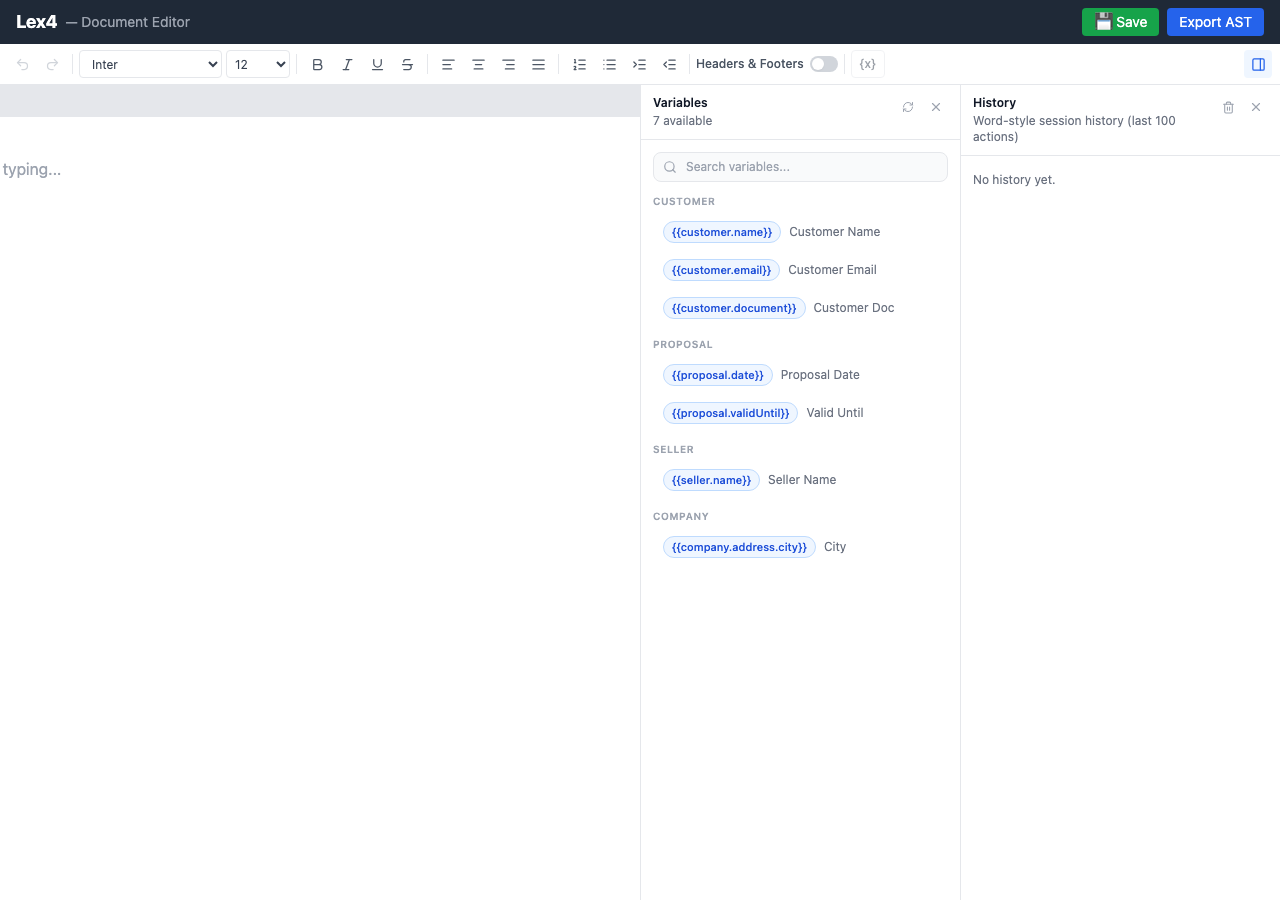
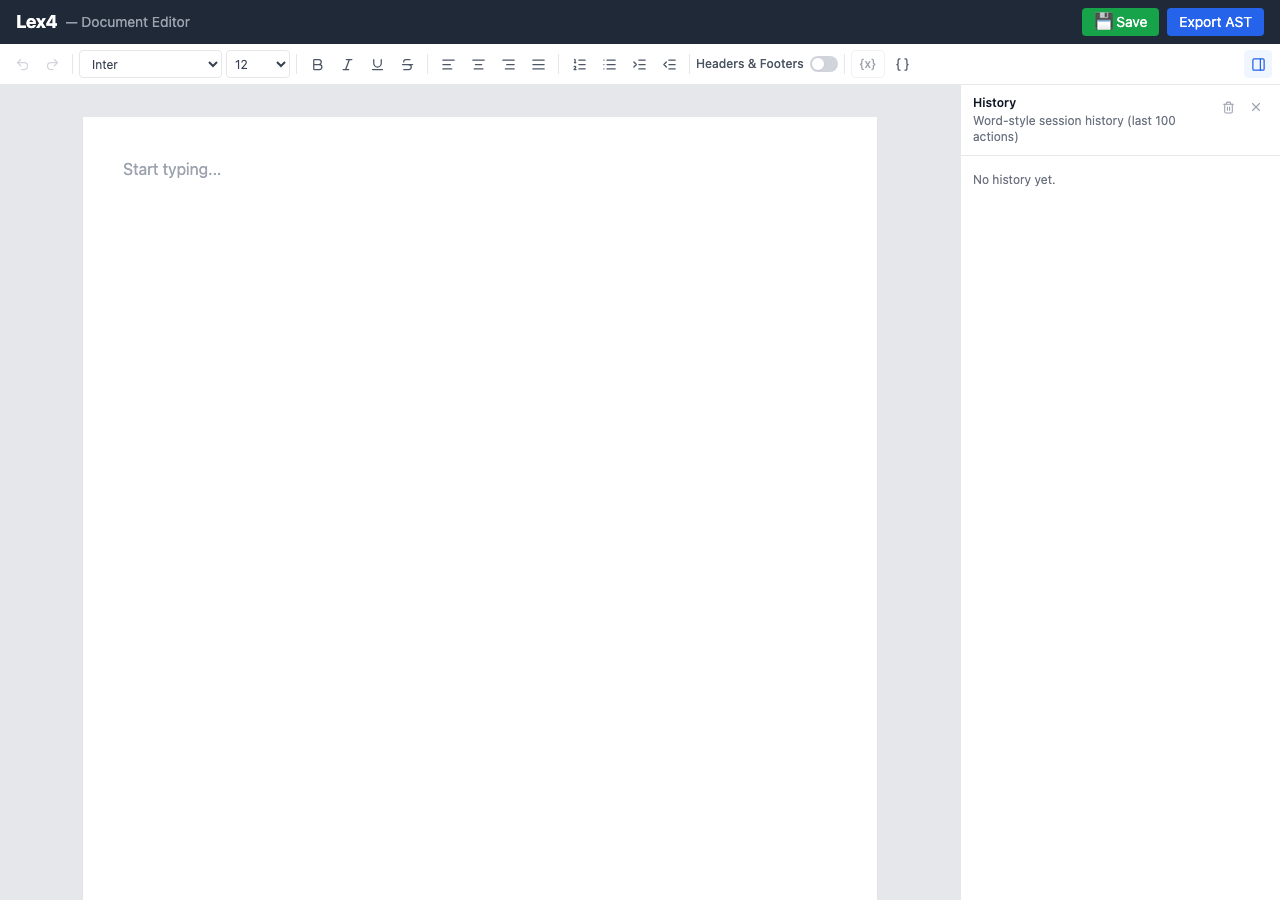
fix: variable panel toggle button, variable node deletion, panel state
- Add Braces icon toggle button in toolbar to open/close Variables panel
- Panel starts closed by default (no longer auto-opens)
- VariablePanelContext provides reactive open/close state shared between
  toolbar toggle and side panel
- Fix VariableNode deletion: replace isIsolated() with
  isKeyboardSelectable() so nodes can be selected and deleted via
  backspace/delete keys
- VariablePanel now receives open/onClose as props

diff --git a/packages/editor/src/extensions/variables-extension.tsx b/packages/editor/src/extensions/variables-extension.tsx
@@ -1,4 +1,5 @@
-import React, { useCallback, useEffect } from 'react';
+import React, { createContext, useCallback, useContext, useEffect, useState } from 'react';
+import { Braces } from 'lucide-react';
 import type { Lex4Extension, ExtensionContext } from './types';
 import type { VariableDefinition } from '../variables/types';
 import { VariableNode } from '../variables/variable-node';
@@ -9,6 +10,31 @@ import { VariablePanel } from '../components/VariablePanel';
 import { INSERT_VARIABLE_COMMAND } from '../variables/variable-commands';
 import { useDocument } from '../context/document-context';
 import { useExtensionState } from './extension-context';
+
+// --- Variable panel open/close context ---
+
+interface VariablePanelState {
+  panelOpen: boolean;
+  setPanelOpen: (open: boolean) => void;
+}
+
+const VariablePanelContext = createContext<VariablePanelState>({
+  panelOpen: false,
+  setPanelOpen: () => {},
+});
+
+export function useVariablePanelState(): VariablePanelState {
+  return useContext(VariablePanelContext);
+}
+
+const VariablePanelStateProvider: React.FC<{ children: React.ReactNode }> = ({ children }) => {
+  const [panelOpen, setPanelOpen] = useState(false);
+  return (
+    <VariablePanelContext.Provider value={{ panelOpen, setPanelOpen }}>
+      {children}
+    </VariablePanelContext.Provider>
+  );
+};
 
 /**
  * Toolbar item contributed by the variables extension.
@@ -37,6 +63,40 @@ const VariableToolbarItem: React.FC = () => {
 };
 
 /**
+ * Toolbar toggle button for the Variables side panel.
+ */
+const VariablePanelToggle: React.FC = () => {
+  const { panelOpen, setPanelOpen } = useVariablePanelState();
+
+  return (
+    <button
+      type="button"
+      title={panelOpen ? 'Close Variables' : 'Open Variables'}
+      aria-label={panelOpen ? 'Close Variables' : 'Open Variables'}
+      onMouseDown={e => e.preventDefault()}
+      onClick={() => setPanelOpen(!panelOpen)}
+      className={`
+        flex h-7 w-7 items-center justify-center rounded transition-colors
+        ${panelOpen
+          ? 'bg-blue-50 text-blue-600'
+          : 'text-gray-600 hover:bg-gray-100 hover:text-gray-900'}
+      `}
+      data-testid="toggle-variable-panel"
+    >
+      <Braces size={15} />
+    </button>
+  );
+};
+
+/**
+ * Wrapped VariablePanel that reads open/close state from VariablePanelContext.
+ */
+const VariablePanelWithState: React.FC = () => {
+  const { panelOpen, setPanelOpen } = useVariablePanelState();
+  return <VariablePanel open={panelOpen} onClose={() => setPanelOpen(false)} />;
+};
+
+/**
  * Syncs the VariableProvider definitions into the extension state store
  * so astExtension can access them when building the AST.
  */
@@ -58,7 +118,8 @@ const VariableDefinitionsSync: React.FC<{ children: React.ReactNode }> = ({ chil
  * - VariableNode (custom Lexical node)
  * - VariablePlugin (body plugin for insert command handling)
  * - VariableProvider (context provider for variable catalog)
- * - VariablePicker toolbar item
+ * - VariablePicker toolbar item + panel toggle button
+ * - VariablePanel side panel with toggle state
  * - Handle methods: insertVariable, refreshVariables
  *
  * @param definitions Initial variable definitions to load
@@ -74,11 +135,13 @@ const VariableDefinitionsSync: React.FC<{ children: React.ReactNode }> = ({ chil
 export function variablesExtension(definitions: VariableDefinition[] = []): Lex4Extension {
   const ProviderWrapper: React.FC<{ children: React.ReactNode }> = ({ children }) => {
     return (
-      <VariableProvider initialDefinitions={definitions}>
-        <VariableDefinitionsSync>
-          {children}
-        </VariableDefinitionsSync>
-      </VariableProvider>
+      <VariablePanelStateProvider>
+        <VariableProvider initialDefinitions={definitions}>
+          <VariableDefinitionsSync>
+            {children}
+          </VariableDefinitionsSync>
+        </VariableProvider>
+      </VariablePanelStateProvider>
     );
   };
 
@@ -86,8 +149,8 @@ export function variablesExtension(definitions: VariableDefinition[] = []): Lex4
     name: 'variables',
     nodes: [VariableNode],
     bodyPlugins: [VariablePlugin],
-    toolbarItems: [VariableToolbarItem],
-    sidePanel: VariablePanel,
+    toolbarItems: [VariableToolbarItem, VariablePanelToggle],
+    sidePanel: VariablePanelWithState,
     provider: ProviderWrapper,
     handleMethods: (ctx: ExtensionContext) => ({
       insertVariable: (key: string) => {

diff --git a/packages/editor/src/components/VariablePanel.tsx b/packages/editor/src/components/VariablePanel.tsx
@@ -15,11 +15,13 @@ import type { VariableDefinition } from '../variables/types';
  * - Click-to-insert into the active editor
  * - Refresh button for reloading definitions
  */
-export const VariablePanel: React.FC = () => {
+export const VariablePanel: React.FC<{
+  open: boolean;
+  onClose: () => void;
+}> = ({ open, onClose }) => {
   const { definitions } = useVariables();
   const { activeEditor, runHistoryAction } = useDocument();
   const [filter, setFilter] = useState('');
-  const [open, setOpen] = useState(true);
 
   const filtered = useMemo(() => {
     if (!filter) return definitions;
@@ -59,7 +61,7 @@ export const VariablePanel: React.FC = () => {
       title="Variables"
       subtitle={`${definitions.length} available`}
       open={open}
-      onClose={() => setOpen(false)}
+      onClose={onClose}
       testId="variable-panel"
       headerActions={
         <button

diff --git a/packages/editor/src/variables/variable-node.tsx b/packages/editor/src/variables/variable-node.tsx
@@ -90,7 +90,7 @@ export class VariableNode extends DecoratorNode<JSX.Element> {
     return true;
   }
 
-  isIsolated(): boolean {
+  isKeyboardSelectable(): boolean {
     return true;
   }
 
